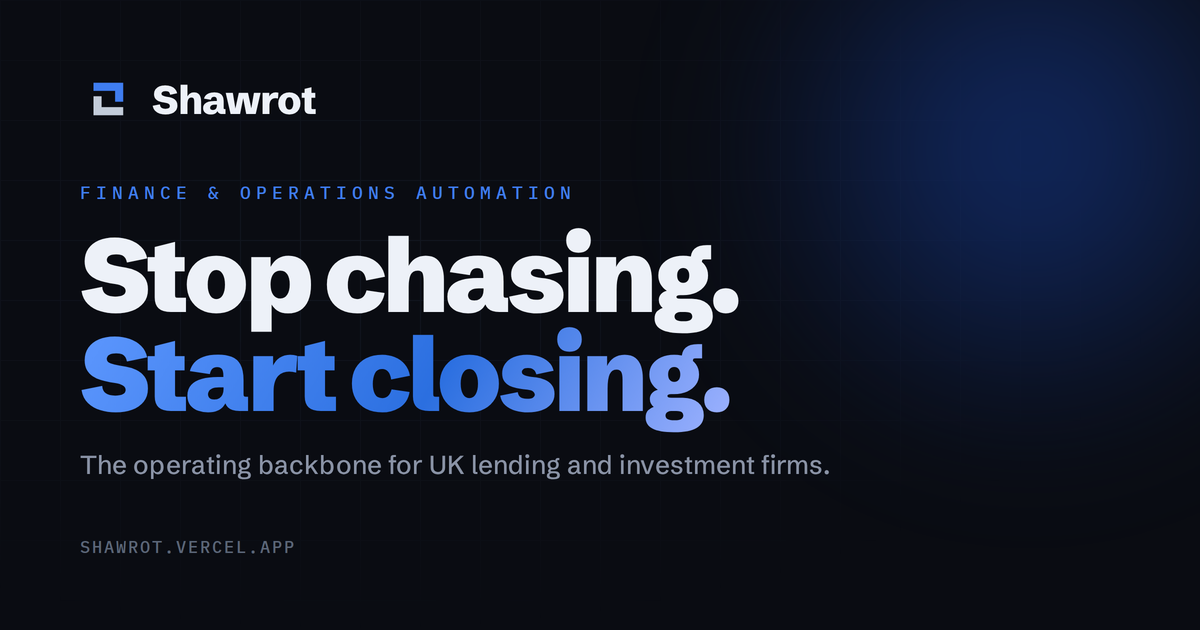
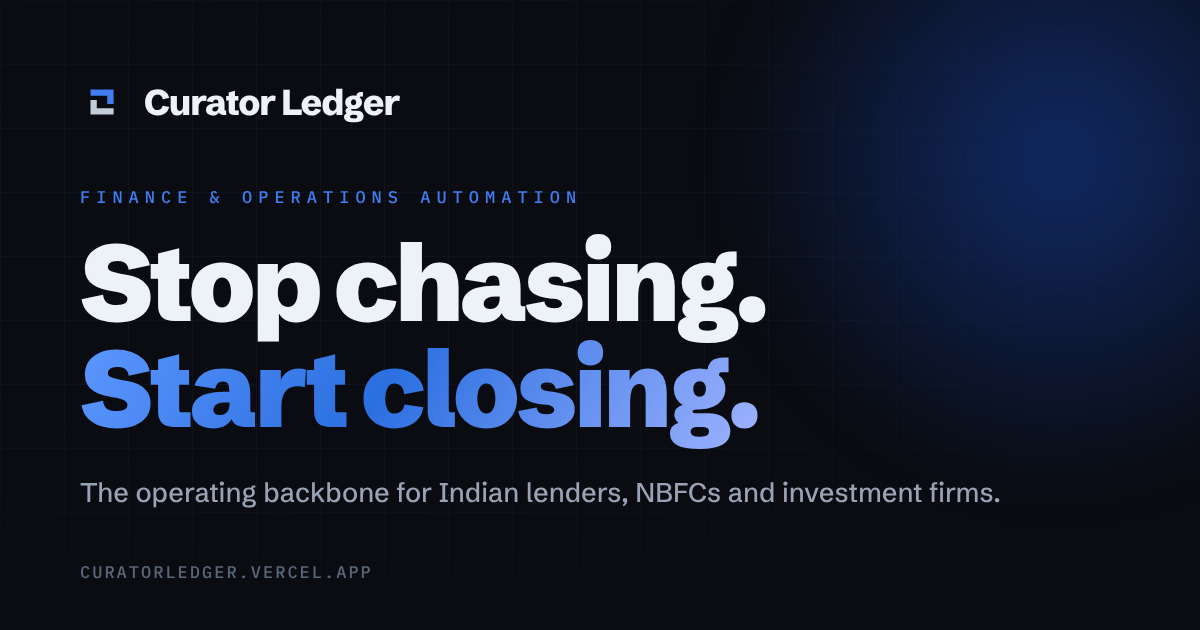
Rebrand to Curator Ledger: INR figures, India localisation, new domain
- Shawrot -> Curator Ledger across page, meta, footer, OG image
- GBP 21.5M -> INR 277.24 Cr (original figure, no FX conversion)
- UK copy -> Indian lenders/NBFCs, TDS/GST, rupees
- Remove hello@shawrot.club (footer + form mailto)
- canonical, OG tags, sitemap, robots -> curatorledger.vercel.app

Claude-Session: https://claude.ai/code/session_01RksiWeBiw54ZrWw2aoaCmw

diff --git a/index.html b/index.html
@@ -3,8 +3,19 @@
 <head>
 <meta charset="UTF-8">
 <meta name="viewport" content="width=device-width, initial-scale=1.0">
-<title>Shawrot · Stop chasing. Start closing.</title>
-<meta name="description" content="Shawrot installs the finance and operations backbone for UK lending and investment firms: automated agreements, repayment monitoring, tax compliance, and live dashboards. Stop chasing. Start closing.">
+<title>Curator Ledger · Stop chasing. Start closing.</title>
+<meta name="description" content="Curator Ledger installs the finance and operations backbone for Indian lenders, NBFCs and investment firms: automated agreements, repayment monitoring, TDS and GST compliance, and live dashboards. Stop chasing. Start closing.">
+<link rel="canonical" href="https://curatorledger.vercel.app/">
+<meta property="og:type" content="website">
+<meta property="og:site_name" content="Curator Ledger">
+<meta property="og:title" content="Curator Ledger · Stop chasing. Start closing.">
+<meta property="og:description" content="The operating backbone for Indian lenders, NBFCs and investment firms.">
+<meta property="og:url" content="https://curatorledger.vercel.app/">
+<meta property="og:image" content="https://curatorledger.vercel.app/og-image.png">
+<meta name="twitter:card" content="summary_large_image">
+<meta name="twitter:image" content="https://curatorledger.vercel.app/og-image.png">
+<link rel="icon" type="image/png" href="favicon.png">
+<link rel="apple-touch-icon" href="apple-touch-icon.png">
 <link rel="preconnect" href="https://fonts.googleapis.com">
 <link rel="preconnect" href="https://fonts.gstatic.com" crossorigin>
 <link href="https://fonts.googleapis.com/css2?family=Schibsted+Grotesk:wght@400;500;600;700;800;900&family=IBM+Plex+Mono:wght@400;500;600&display=swap" rel="stylesheet">
@@ -147,6 +158,7 @@ nav{max-width:var(--maxw);margin:0 auto;padding:18px 28px;display:flex;align-ite
 .stat:hover::after{transform:scaleX(1)}
 .stat .num{font-size:clamp(34px,3.6vw,46px);font-weight:800;letter-spacing:-1.5px;line-height:1}
 .stat .num .u{color:var(--blue-bright)}
+.stat .num.long{font-size:clamp(28px,2.9vw,40px);white-space:nowrap}
 .stat .lab{font-weight:600;font-size:15px;margin-top:12px}
 .stat .desc{color:var(--text-mute);font-size:13px;margin-top:6px;font-family:var(--mono);letter-spacing:.3px}
 
@@ -279,6 +291,7 @@ footer{border-top:1px solid var(--line);padding:54px 0 38px}
   .step-node{flex-shrink:0}
   .about-points{grid-template-columns:1fr}
   .cta-card{padding:40px 26px}
+  .viz-tag-sfx{display:none}
   .foot-cols{gap:36px}
 }
 @media(prefers-reduced-motion:reduce){*{animation:none!important;transition:none!important}.reveal{opacity:1;transform:none}.hero h1 .line span{transform:none}}
@@ -294,9 +307,9 @@ footer{border-top:1px solid var(--line);padding:54px 0 38px}
 <!-- NAV -->
 <header id="header">
   <nav>
-    <a href="#top" class="brand" aria-label="Shawrot home">
+    <a href="#top" class="brand" aria-label="Curator Ledger home">
       <svg viewBox="0 0 120 120"><rect width="120" height="120" rx="26" fill="transparent"/><path d="M30 24 L96 24 L96 66 L78 66 L78 42 L30 42 Z" fill="#3F7DF0"/><path d="M96 96 L30 96 L30 54 L48 54 L48 78 L96 78 Z" fill="#C3CCD9"/></svg>
-      <span class="wm">Shawrot</span>
+      <span class="wm">Curator Ledger</span>
     </a>
     <div class="navlinks" id="navlinks">
       <a href="#services">Services</a>
@@ -318,13 +331,13 @@ footer{border-top:1px solid var(--line);padding:54px 0 38px}
         <span class="line"><span>Stop chasing.</span></span>
         <span class="line"><span class="grad">Start closing.</span></span>
       </h1>
-      <p class="hero-sub">Shawrot installs the operating backbone for UK lending and investment firms: automated agreements, repayment monitoring, compliance, and live dashboards. Your team stops drowning in follow-ups and gets back to closing deals.</p>
+      <p class="hero-sub">Curator Ledger installs the operating backbone for Indian lenders, NBFCs and investment firms: automated agreements, repayment monitoring, TDS and GST compliance, and live dashboards. Your team stops drowning in follow-ups and gets back to closing deals.</p>
       <div class="hero-cta">
         <a href="#contact" class="btn btn-primary">Get a free ops audit <span class="arr">→</span></a>
         <a href="#workflow" class="btn btn-ghost">See how it works</a>
       </div>
       <div class="hero-meta">
-        <div class="m"><b>£21.5M</b><small>Deals systemised</small></div>
+        <div class="m"><b>₹277.24 Cr</b><small>Deals systemised</small></div>
         <div class="m"><b>900–1,300 hrs</b><small>Saved / year</small></div>
         <div class="m"><b>100%</b><small>Data accuracy</small></div>
       </div>
@@ -333,7 +346,7 @@ footer{border-top:1px solid var(--line);padding:54px 0 38px}
       <div class="viz-card">
         <div class="viz-head">
           <span class="dot"><i></i><i></i><i></i></span>
-          <span class="viz-tag">SHAWROT · OPS CONSOLE</span>
+          <span class="viz-tag">CURATOR LEDGER<span class="viz-tag-sfx"> · OPS CONSOLE</span></span>
         </div>
         <div class="viz-row">
           <span class="lab"><span class="ic"><svg viewBox="0 0 24 24" fill="none" stroke="currentColor" stroke-width="2"><path d="M14 2H6a2 2 0 0 0-2 2v16a2 2 0 0 0 2 2h12a2 2 0 0 0 2-2V8z"/><path d="M14 2v6h6"/></svg></span> Agreement generated</span>
@@ -344,7 +357,7 @@ footer{border-top:1px solid var(--line);padding:54px 0 38px}
           <span class="bar-track"><span class="bar-fill" style="--w:82%"></span></span>
         </div>
         <div class="viz-row">
-          <span class="lab"><span class="ic"><svg viewBox="0 0 24 24" fill="none" stroke="currentColor" stroke-width="2"><rect x="3" y="4" width="18" height="16" rx="2"/><path d="M3 10h18M8 4v16"/></svg></span> Tax reconciliation</span>
+          <span class="lab"><span class="ic"><svg viewBox="0 0 24 24" fill="none" stroke="currentColor" stroke-width="2"><rect x="3" y="4" width="18" height="16" rx="2"/><path d="M3 10h18M8 4v16"/></svg></span> TDS reconciliation</span>
           <span class="pill run">running</span>
         </div>
         <div class="viz-row">
@@ -365,8 +378,8 @@ footer{border-top:1px solid var(--line);padding:54px 0 38px}
 <div class="marquee-sec">
   <p class="mq-label">Built across the finance desk</p>
   <div class="marquee">
-    <span>Agreement Automation</span><span>Repayment Monitoring</span><span>Tax &amp; Compliance</span><span>KYC Onboarding</span><span>Financial Models</span><span>Airtable Migration</span><span>Live Dashboards</span><span>Doc Validation</span><span>AI Sales Funnels</span>
-    <span>Agreement Automation</span><span>Repayment Monitoring</span><span>Tax &amp; Compliance</span><span>KYC Onboarding</span><span>Financial Models</span><span>Airtable Migration</span><span>Live Dashboards</span><span>Doc Validation</span><span>AI Sales Funnels</span>
+    <span>Agreement Automation</span><span>Repayment Monitoring</span><span>TDS &amp; GST Compliance</span><span>KYC Onboarding</span><span>Financial Models</span><span>Airtable Migration</span><span>Live Dashboards</span><span>Doc Validation</span><span>AI Sales Funnels</span>
+    <span>Agreement Automation</span><span>Repayment Monitoring</span><span>TDS &amp; GST Compliance</span><span>KYC Onboarding</span><span>Financial Models</span><span>Airtable Migration</span><span>Live Dashboards</span><span>Doc Validation</span><span>AI Sales Funnels</span>
   </div>
 </div>
 
@@ -375,10 +388,10 @@ footer{border-top:1px solid var(--line);padding:54px 0 38px}
   <div class="wrap">
     <span class="kicker reveal">Track record</span>
     <h2 class="sec-title reveal d1">Numbers from a real operating desk.</h2>
-    <p class="sec-lead reveal d2">Shawrot's playbook came from building 20+ live systems on a real media-financing desk. These are the results that backbone carried.</p>
+    <p class="sec-lead reveal d2">Curator Ledger's playbook came from building 20+ live systems on a real media-financing desk. These are the results that backbone carried.</p>
     <div class="stat-grid">
       <div class="stat reveal d1"><div class="num"><span data-count="20" data-suffix="+">0</span></div><div class="lab">Systems &amp; dashboards built</div><div class="desc">across asset, fin, corp ops &amp; growth</div></div>
-      <div class="stat reveal d2"><div class="num">£<span data-count="21.5">0</span><span class="u">M</span></div><div class="lab">Deals run end to end</div><div class="desc">20 projects · 125 tranches</div></div>
+      <div class="stat reveal d2"><div class="num long">₹<span data-count="277.24">0</span><span class="u"> Cr</span></div><div class="lab">Deals run end to end</div><div class="desc">20 projects · 125 tranches</div></div>
       <div class="stat reveal d3"><div class="num"><span data-count="1080" data-suffix="+">0</span></div><div class="lab">Agreements automated</div><div class="desc">8–10 min → under 2 min</div></div>
       <div class="stat reveal d4"><div class="num"><span data-count="100">0</span><span class="u">%</span></div><div class="lab">Data accuracy</div><div class="desc">60–90% fewer errors</div></div>
     </div>
@@ -388,7 +401,7 @@ footer{border-top:1px solid var(--line);padding:54px 0 38px}
 <!-- SERVICES -->
 <section class="services" id="services">
   <div class="wrap">
-    <span class="kicker reveal">What Shawrot installs</span>
+    <span class="kicker reveal">What Curator Ledger installs</span>
     <h2 class="sec-title reveal d1">Six systems that run your<br>finance desk on autopilot.</h2>
     <p class="sec-lead reveal d2">Each one replaces a manual, error-prone process with a system that's templated, automated and reported on. Built on the no-code and AI stack you already use.</p>
     <div class="svc-grid">
@@ -398,7 +411,7 @@ footer{border-top:1px solid var(--line);padding:54px 0 38px}
         <div class="svc-ic"><svg viewBox="0 0 24 24" fill="none" stroke="currentColor" stroke-width="2"><path d="M12 2v4M12 18v4M4.9 4.9l2.8 2.8M16.3 16.3l2.8 2.8M2 12h4M18 12h4M4.9 19.1l2.8-2.8M16.3 7.7l2.8-2.8"/></svg></div>
         <div class="svc-body"><h3>Lending &amp; Finance-Ops Automation</h3>
           <p>End-to-end: onboarding → agreement → e-sign → repayment → collections. The flagship backbone that ties every desk function into one flow.</p>
-          <div class="svc-tags"><em>Specialist lenders</em><em>AIF</em><em>Fintech</em></div>
+          <div class="svc-tags"><em>NBFCs</em><em>AIF</em><em>Fintech</em></div>
         </div>
       </div>
 
@@ -423,9 +436,9 @@ footer{border-top:1px solid var(--line);padding:54px 0 38px}
       <div class="svc reveal d1">
         <div class="svc-img"><img src="assets/office.jpg" alt="Compliance and tax operations"></div>
         <div class="svc-ic"><svg viewBox="0 0 24 24" fill="none" stroke="currentColor" stroke-width="2"><path d="M12 22s8-4 8-10V5l-8-3-8 3v7c0 6 8 10 8 10z"/><path d="M9 12l2 2 4-4"/></svg></div>
-        <div class="svc-body"><h3>Tax &amp; compliance ops (KYC / VAT)</h3>
-          <p>Tax filings, email follow-ups and KYC onboarding mailers generated and chased on a monthly and quarterly cadence. The recurring layer that never lapses.</p>
-          <div class="svc-tags"><em>UK-ready</em><em>Monthly + quarterly</em></div>
+        <div class="svc-body"><h3>Tax &amp; compliance ops (TDS / GST / KYC)</h3>
+          <p>TDS computation, GST filings, email follow-ups and KYC onboarding mailers generated and chased on a monthly and quarterly cadence. The recurring layer that never lapses.</p>
+          <div class="svc-tags"><em>TDS + GST</em><em>Monthly + quarterly</em></div>
         </div>
       </div>
 
@@ -473,7 +486,7 @@ footer{border-top:1px solid var(--line);padding:54px 0 38px}
       <div class="eng reveal d1">
         <span class="ph">01 · AUDIT</span>
         <h3>Map &amp; cost the chaos</h3>
-        <p>A fixed-scope review of where your desk leaks time and accuracy, and what automation is worth to you in hours and pounds.</p>
+        <p>A fixed-scope review of where your desk leaks time and accuracy, and what automation is worth to you in hours and rupees.</p>
         <ul>
           <li><svg viewBox="0 0 24 24" fill="none" stroke="currentColor" stroke-width="2.5"><path d="M20 6L9 17l-5-5"/></svg> Process &amp; data map</li>
           <li><svg viewBox="0 0 24 24" fill="none" stroke="currentColor" stroke-width="2.5"><path d="M20 6L9 17l-5-5"/></svg> ROI &amp; priority shortlist</li>
@@ -511,19 +524,19 @@ footer{border-top:1px solid var(--line);padding:54px 0 38px}
 <section class="about" id="about">
   <div class="wrap about-grid">
     <div class="about-img reveal">
-      <img src="assets/manoj.jpg" alt="Manoj Sharvesh M, founder of Shawrot">
+      <img src="assets/manoj.jpg" alt="Manoj Sharvesh M, founder of Curator Ledger">
       <div class="about-badge"><b>Manoj Sharvesh M</b><small>FOUNDER · FINANCE-OPS ARCHITECT</small></div>
     </div>
     <div>
-      <span class="kicker reveal">Why Shawrot</span>
+      <span class="kicker reveal">Why Curator Ledger</span>
       <h2 class="sec-title reveal d1">Built by an operator who<br>ran the desk.</h2>
-      <p class="lead reveal d2">Shawrot didn't start as a product pitch. It started on a real finance desk, closing £21.5M of deals end to end while building the 20+ systems six teams ran on.</p>
+      <p class="lead reveal d2">Curator Ledger didn't start as a product pitch. It started on a real finance desk, closing ₹277.24 crore of deals end to end while building the 20+ systems six teams ran on.</p>
       <p class="body reveal d2">That means the workflows are tested against real deal, repayment, tax and compliance work. You get the domain knowledge of someone who's lived the chaos, and the engineering to design it out for good.</p>
       <div class="about-points">
         <div class="ap reveal d3"><b>70–95%</b><small>Less time on core workflows</small></div>
         <div class="ap reveal d3"><b>15+ processes</b><small>Standardised end to end</small></div>
         <div class="ap reveal d4"><b>6 teams</b><small>Served by one backbone</small></div>
-        <div class="ap reveal d4"><b>Lending-native</b><small>AIF, credit funds &amp; fintech ready</small></div>
+        <div class="ap reveal d4"><b>Lending-native</b><small>NBFC, AIF &amp; fintech ready</small></div>
       </div>
     </div>
   </div>
@@ -546,7 +559,7 @@ footer{border-top:1px solid var(--line);padding:54px 0 38px}
             <option>Free ops audit</option>
             <option>Agreement &amp; document automation</option>
             <option>Repayment / collections monitoring</option>
-            <option>Tax &amp; compliance automation</option>
+            <option>TDS &amp; GST compliance automation</option>
             <option>Airtable migration &amp; dashboards</option>
             <option>Something else</option>
           </select>
@@ -563,7 +576,7 @@ footer{border-top:1px solid var(--line);padding:54px 0 38px}
   <div class="wrap">
     <div class="foot-grid">
       <div class="foot-brand">
-        <div class="brand"><svg viewBox="0 0 120 120" style="width:30px;height:30px"><path d="M30 24 L96 24 L96 66 L78 66 L78 42 L30 42 Z" fill="#3F7DF0"/><path d="M96 96 L30 96 L30 54 L48 54 L48 78 L96 78 Z" fill="#C3CCD9"/></svg><span class="wm">Shawrot</span></div>
+        <div class="brand"><svg viewBox="0 0 120 120" style="width:30px;height:30px"><path d="M30 24 L96 24 L96 66 L78 66 L78 42 L30 42 Z" fill="#3F7DF0"/><path d="M96 96 L30 96 L30 54 L48 54 L48 78 L96 78 Z" fill="#C3CCD9"/></svg><span class="wm">Curator Ledger</span></div>
         <p>Stop chasing. Start closing.</p>
       </div>
       <div class="foot-cols">
@@ -574,12 +587,12 @@ footer{border-top:1px solid var(--line);padding:54px 0 38px}
           <a href="#about">About</a><a href="#workflow">How it works</a><a href="#engagement">Engagement</a><a href="#contact">Contact</a>
         </div>
         <div class="foot-col"><h5>Get in touch</h5>
-          <a href="mailto:hello@shawrot.club">hello@shawrot.club</a><a href="#contact">Book a call</a>
+          <a href="#contact">Book a call</a>
         </div>
       </div>
     </div>
     <div class="foot-bottom">
-      <p>© <span id="yr"></span> Shawrot. All rights reserved.</p>
+      <p>© <span id="yr"></span> Curator Ledger. All rights reserved.</p>
       <p>Finance &amp; Operations Automation</p>
     </div>
   </div>
@@ -611,7 +624,7 @@ function animateCount(el){
   const target=parseFloat(el.dataset.count),suffix=el.dataset.suffix||'',dec=(String(el.dataset.count).split('.')[1]||'').length;
   let start=0,dur=1500,t0=null;
   function step(t){if(!t0)t0=t;const p=Math.min((t-t0)/dur,1),eased=1-Math.pow(1-p,3);
-    el.textContent=(target*eased).toLocaleString('en-GB',{minimumFractionDigits:dec,maximumFractionDigits:dec})+suffix;
+    el.textContent=(target*eased).toLocaleString('en-IN',{minimumFractionDigits:dec,maximumFractionDigits:dec})+suffix;
     if(p<1)requestAnimationFrame(step);}
   requestAnimationFrame(step);
 }
@@ -658,12 +671,12 @@ const WF=[
      {i:ICN.check,t:'Reconcile',d:'Matched against receipts'},
      {i:ICN.chart,t:'Dashboard',d:'Live portfolio view'}
    ]},
-  {key:'tds',label:'Tax & Compliance',title:'Tax & compliance ops',
+  {key:'tds',label:'TDS & GST',title:'TDS & GST compliance ops',
    desc:'The recurring layer that never lapses. Records sync, tax is computed, lists and emails go out and get chased every month and quarter, automatically.',
    result:['Monthly + quarterly','Under 10 min/run','Nothing slips'],
    steps:[
      {i:ICN.sync,t:'Records sync',d:'From the master DB'},
-     {i:ICN.calc,t:'Tax computed',d:'Per entity & cadence'},
+     {i:ICN.calc,t:'TDS computed',d:'Per entity & cadence'},
      {i:ICN.doc,t:'List generated',d:'Ready-to-file output'},
      {i:ICN.mail,t:'Email follow-ups',d:'Chased on fixed schedule'},
      {i:ICN.check,t:'Close',d:'Monthly / quarterly sign-off'}
@@ -714,12 +727,12 @@ function renderFlow(idx){
 }
 renderFlow(0);
 
-/* lead form -> mailto (no backend needed; swap for your CRM/Formspree later) */
+/* lead form: no inbox connected yet; wire to a backend (Formspree, Supabase, CRM) before relying on it */
 document.getElementById('leadForm').addEventListener('submit',e=>{
   e.preventDefault();
-  const f=e.target,d=new FormData(f);
-  const body=`Name: ${d.get('name')}%0D%0ACompany: ${d.get('company')||'-'}%0D%0ANeed: ${d.get('need')}%0D%0A%0D%0A${d.get('message')||''}`;
-  window.location.href=`mailto:hello@shawrot.club?subject=New enquiry from ${encodeURIComponent(d.get('name'))}&body=${body}`;
+  const f=e.target;let n=f.querySelector('.form-note');
+  if(!n){n=document.createElement('small');n.className='form-note';f.appendChild(n);}
+  n.textContent='Thanks. Our enquiry inbox is being set up, so please check back shortly.';
 });
 </script>
 </body>

diff --git a/README.md b/README.md
@@ -1,26 +1,24 @@
-# Shawrot — Website
+# Curator Ledger: Website
 
-A production-ready single-page site for Shawrot (finance & operations automation).
+A production-ready single-page site for Curator Ledger (finance & operations automation for Indian lenders, NBFCs and investment firms).
+Live at https://curatorledger.vercel.app
 Dark fintech aesthetic, brand-true (blue→navy/silver, Schibsted Grotesk + IBM Plex Mono),
 with load animations, scroll reveals, animated counters, and an interactive
 service-workflow viewer.
 
-## Two versions in this package
-1. `index.html` + `assets/`  — standard build (images kept as separate files; easiest to edit).
-2. `shawrot-website.html`     — same site as ONE self-contained file (images embedded). Drop it anywhere.
+## Files
+`index.html` + `assets/`: single-page site, images kept as separate files.
 
 ## Deploy (pick one)
-- **Netlify (fastest):** go to app.netlify.com → "Add new site" → "Deploy manually" → drag this folder in. Live in ~20s. Then point your shawrot.club domain at it.
+- **Netlify (fastest):** go to app.netlify.com → "Add new site" → "Deploy manually" → drag this folder in. Live in ~20s.
 - **Vercel:** `npx vercel` from this folder, or drag-drop in the dashboard.
 - **GitHub Pages:** push these files to a repo → Settings → Pages → deploy from branch.
 - **Any host / your own server:** upload `index.html` + `assets/` to the web root.
-- **One-file option:** upload only `shawrot-website.html` (rename to index.html) — no assets folder needed.
 
-## Before going fully live — quick edits
-- Email: replace `hello@shawrot.club` (appears in the form, footer, mailto).
-- About photo: `assets/office.jpg` is a placeholder — swap in your real headshot.
-- Lead form: currently opens the visitor's email client (mailto, no backend).
-  For captured leads, wire it to Formspree, your CRM, or Google Forms (one-line change in the script).
+## Before going fully live: quick edits
+- Email: no contact email is published yet. Add one to the footer once the inbox exists.
+- Lead form: not connected to any inbox. Submissions show a holding note and are not stored.
+  Wire it to Formspree, Supabase or your CRM before relying on it (see the script at the bottom of index.html).
 - Fonts load from Google Fonts (needs internet); self-host if you want zero external calls.
 
 ## Image credits
